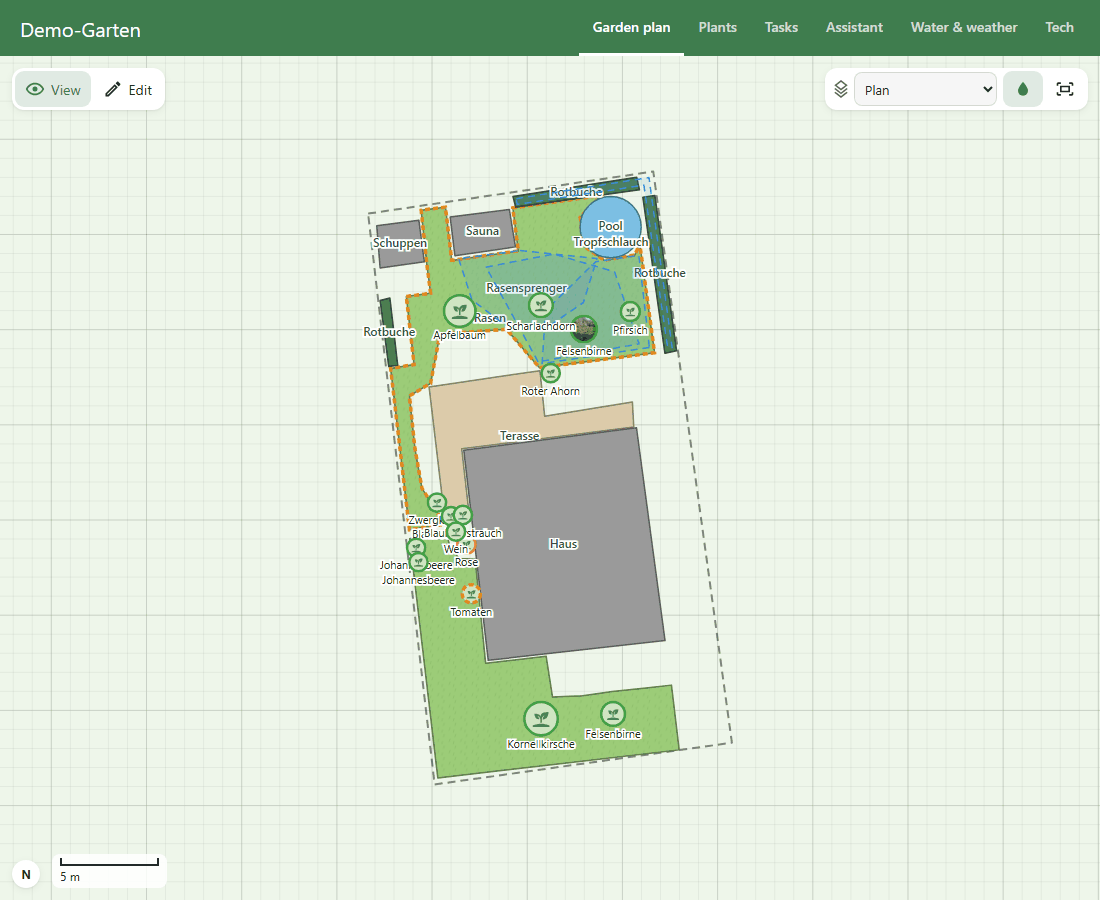
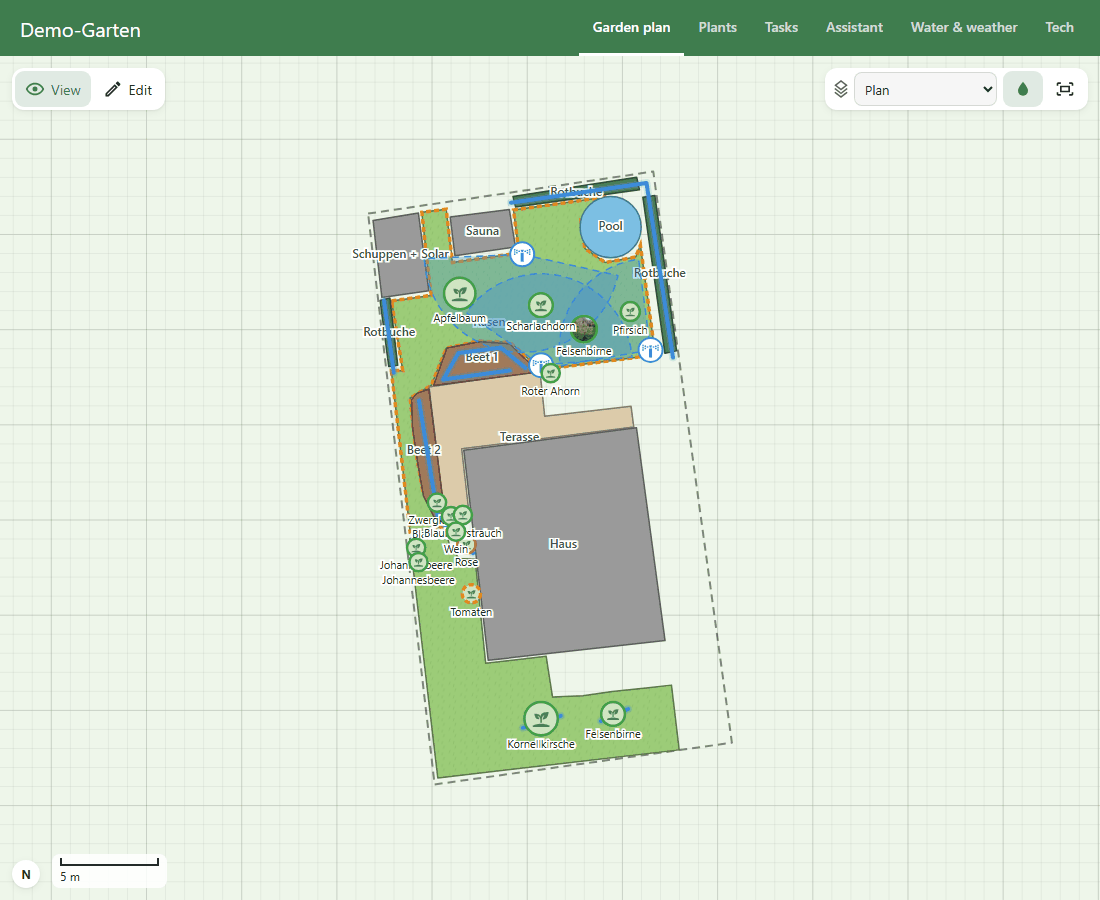
docs: README screenshots with sprinklers and drip lines, links for HACS
A new garden plan and an edit-mode picture of a sprinkler with its handles
and settings. HACS shows the README inside Home Assistant and does not
resolve relative image paths, so the pictures are linked absolutely on the
main branch.

Changed region(s): [[0.34, 0.1867, 0.6182, 0.5911], [0.5255, 0.4356, 0.5873, 0.4667], [0.4327, 0.4667, 0.4945, 0.4978]]

diff --git a/README.md b/README.md
@@ -14,7 +14,7 @@ record.
 Plant Garden never switches anything. It reads the state of your valves and
 sensors and offers recommendations as entities for your own automations.
 
-![The garden plan: lawn, terrace, buildings, a beech hedge drawn as one plant, plants with their names and irrigation areas (dashed blue); dashed amber outlines mark plants that need water](docs/images/plan.png)
+![The garden plan: lawn, terrace, beds, buildings, a beech hedge drawn as one plant, plants with their names, sprinklers watering the lawn and drip lines along the hedge and the beds; dashed amber outlines mark plants that need water](https://raw.githubusercontent.com/Rainking80/ha-plant-maintainance/main/docs/images/plan.png)
 
 <sub>The demo garden in view mode, shown here without its aerial background.</sub>
 
@@ -61,6 +61,8 @@ sensors and offers recommendations as entities for your own automations.
   gaps filled from the recorder. Stuck valves raise a repair notice.
 - Watering with a can is logged on the plant page or with an action.
 
+![Edit mode: a sprinkler with a 165° arc over the lawn, its handles at both ends of the arc and in its middle, the plants it reaches ringed in blue, a drip line around a bed; on the right the sprinkler's reach, angle, direction, emitter and rate](https://raw.githubusercontent.com/Rainking80/ha-plant-maintainance/main/docs/images/irrigation.png)
+
 **Weather and water balance**
 - Weather from your own sensors, [Open-Meteo](https://open-meteo.com) (worldwide)
   or [Bright Sky](https://brightsky.dev) / German Weather Service (Germany).
@@ -102,7 +104,7 @@ The interface is available in English and German.
 
 | Plants | A plant's page | Water & weather |
 |---|---|---|
-| [![The plant list with photos, botanical names, age and status filters](docs/images/plants.png)](docs/images/plants.png) | [![A plant's page with its photo, details, growth and soil water](docs/images/plant.png)](docs/images/plant.png) | [![Rain and evaporation of the last two weeks with the forecast, and the soil water of every plant](docs/images/water.png)](docs/images/water.png) |
+| [![The plant list with photos, botanical names, age and status filters](https://raw.githubusercontent.com/Rainking80/ha-plant-maintainance/main/docs/images/plants.png)](https://raw.githubusercontent.com/Rainking80/ha-plant-maintainance/main/docs/images/plants.png) | [![A plant's page with its photo, details, growth and soil water](https://raw.githubusercontent.com/Rainking80/ha-plant-maintainance/main/docs/images/plant.png)](https://raw.githubusercontent.com/Rainking80/ha-plant-maintainance/main/docs/images/plant.png) | [![Rain and evaporation of the last two weeks with the forecast, and the soil water of every plant](https://raw.githubusercontent.com/Rainking80/ha-plant-maintainance/main/docs/images/water.png)](https://raw.githubusercontent.com/Rainking80/ha-plant-maintainance/main/docs/images/water.png) |
 
 ## Requirements
 
